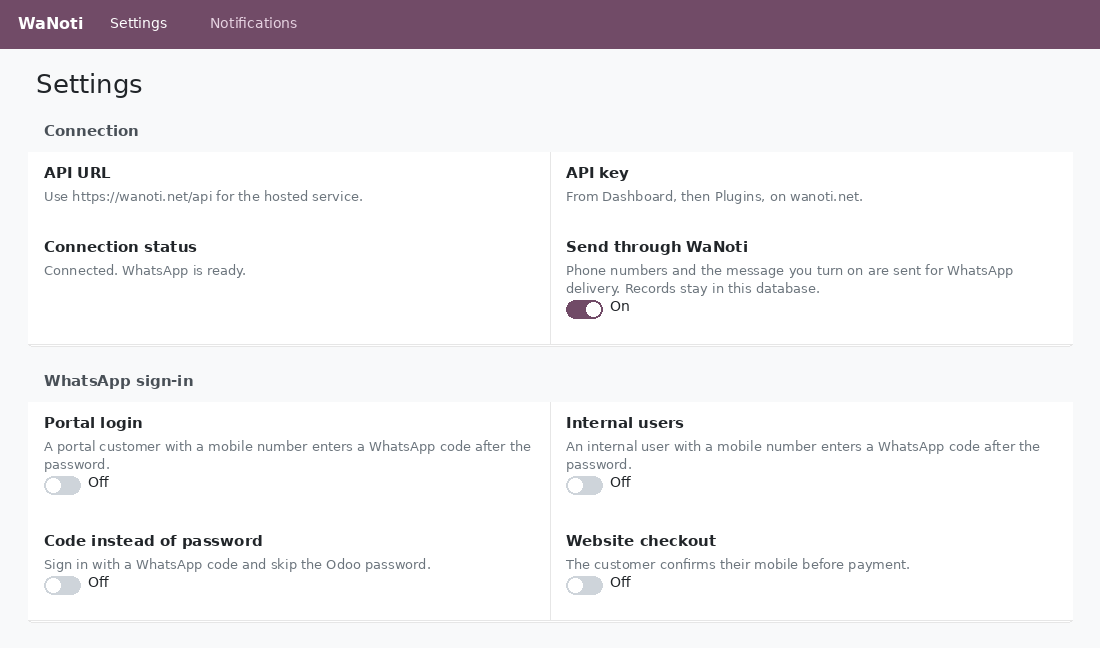
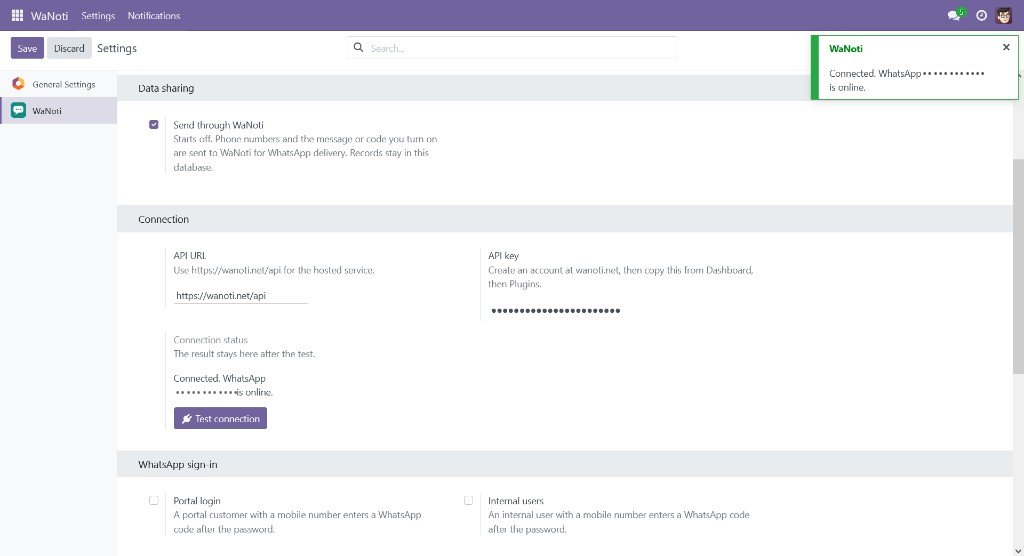
Replace the Apps page mockups with real screenshots.
The store page now shows the live settings, sign-in, notifications, and login screens, with the connected number hidden, and lists every event the module can send.

diff --git a/wanoti/static/description/index.html b/wanoti/static/description/index.html
@@ -2,57 +2,89 @@
     <div class="row">
         <div class="col-12">
             <h2 style="color:#714B67;font-size:28px;line-height:1.3;font-weight:500;margin:8px 0 8px;">WhatsApp beside email and the inbox</h2>
-            <p style="font-size:18px;line-height:1.4;color:#555;margin:0 0 12px;">Turn on the business events you want. Customer and staff are separate.</p>
+            <p style="font-size:18px;line-height:1.4;color:#555;margin:0 0 12px;">One connection. Every business event you turn on. Customer and staff stay separate.</p>
             <p style="font-size:16px;line-height:1.5;">WaNoti sends the events you choose through the company's own WhatsApp number. Published for Odoo 17, Odoo 18, and Odoo 19. Install the series that matches the database. The technical name is wanoti.</p>
-            <p style="font-size:16px;line-height:1.5;">Use it on Odoo.sh or on your own server. Odoo Online cannot install this module.</p>
+            <p style="font-size:16px;line-height:1.5;">Use it on Odoo.sh or on your own server. Odoo Online cannot install this module. Every switch starts off. Nothing is sent until an administrator turns on data sharing and turns on an event or a sign-in code.</p>
         </div>
     </div>
     <div class="row">
         <div class="col-12 col-md-6" style="margin-bottom:16px;">
-            <h3 style="color:#714B67;font-size:20px;line-height:1.3;margin:0 0 6px;">One connection</h3>
-            <p style="font-size:16px;line-height:1.5;">Open wanoti.net, create an account, and copy the API key from Dashboard, then Plugins. Paste it on the settings page and test.</p>
+            <h3 style="color:#714B67;font-size:20px;line-height:1.3;margin:0 0 6px;">Account and connection</h3>
+            <p style="font-size:16px;line-height:1.5;">Open wanoti.net, create an account, and copy the API key from Dashboard, then Plugins. Paste it in WaNoti Settings. The API URL stays wanoti.net/api. Test connection shows whether that WhatsApp number is online.</p>
         </div>
         <div class="col-12 col-md-6" style="margin-bottom:16px;">
-            <h3 style="color:#714B67;font-size:20px;line-height:1.3;margin:0 0 6px;">Real events</h3>
-            <p style="font-size:16px;line-height:1.5;">Sales, invoicing, purchase, CRM, project, inventory, point of sale, recruitment, time off, and maintenance. A section appears only when that app is installed.</p>
-        </div>
-        <div class="col-12 col-md-6" style="margin-bottom:16px;">
-            <h3 style="color:#714B67;font-size:20px;line-height:1.3;margin:0 0 6px;">Customer and staff</h3>
-            <p style="font-size:16px;line-height:1.5;">Each event has its own switches. They all start off. Discussions, activities, and notes are included for every installed app.</p>
+            <h3 style="color:#714B67;font-size:20px;line-height:1.3;margin:0 0 6px;">Country code on every number</h3>
+            <p style="font-size:16px;line-height:1.5;">Phone and Mobile on contacts, users, and preferences open a country list. Search by country name or calling code. The saved number includes the country code.</p>
         </div>
         <div class="col-12 col-md-6" style="margin-bottom:16px;">
             <h3 style="color:#714B67;font-size:20px;line-height:1.3;margin:0 0 6px;">WhatsApp sign-in</h3>
-            <p style="font-size:16px;line-height:1.5;">Portal login, internal login, a code instead of a password, and website checkout. Each one starts off.</p>
+            <p style="font-size:16px;line-height:1.5;">Portal login, internal users, a code instead of the password, and website checkout. Each one starts off. Send one test code without turning the others on.</p>
+        </div>
+        <div class="col-12 col-md-6" style="margin-bottom:16px;">
+            <h3 style="color:#714B67;font-size:20px;line-height:1.3;margin:0 0 6px;">Every installed app</h3>
+            <p style="font-size:16px;line-height:1.5;">Discussions, activities, and notes are listed for every app on the database. Named business events are added for Sales, Invoicing, Purchase, CRM, Project, Inventory, Point of Sale, Recruitment, Time Off, and Maintenance when that app is installed.</p>
         </div>
     </div>
     <div class="row" style="margin-bottom:24px;">
         <div class="col-12 col-md-5">
-            <h2 style="color:#714B67;font-size:26px;line-height:1.3;font-weight:500;margin:8px 0;">Connection and sign-in</h2>
-            <p style="font-size:16px;line-height:1.5;">The settings page opens with data sharing, the API connection, and the WhatsApp codes. Nothing is sent until data sharing is on and an event or a code is turned on.</p>
-            <p style="font-size:16px;line-height:1.5;">If WhatsApp is disconnected, password login and checkout continue. A code-instead-of-password login asks for the password.</p>
+            <h2 style="color:#714B67;font-size:26px;line-height:1.3;font-weight:500;margin:8px 0;">Connection</h2>
+            <p style="font-size:16px;line-height:1.5;">Data sharing starts off. Phone numbers, the message text, and document details for the events you enable are sent to WaNoti so they can be delivered on the company's own WhatsApp number. Odoo keeps the records.</p>
+            <p style="font-size:16px;line-height:1.5;">The connection test stays on the settings page. If WhatsApp is disconnected, password login and checkout continue. A code-instead-of-password login asks for the password.</p>
         </div>
         <div class="col-12 col-md-7">
-            <img src="screen_connection.png" alt="WaNoti connection and WhatsApp sign-in" style="width:100%;max-width:100%;height:auto;"/>
+            <img src="screen_connection.png" alt="WaNoti settings with data sharing and a tested connection" style="width:100%;max-width:100%;height:auto;border:1px solid #e6e6e6;"/>
         </div>
     </div>
     <div class="row" style="margin-bottom:24px;">
         <div class="col-12 col-md-7">
-            <img src="screen_sales.png" alt="Sales, invoicing, and purchase switches" style="width:100%;max-width:100%;height:auto;"/>
+            <img src="screen_signin.png" alt="WhatsApp sign-in choices and a test code" style="width:100%;max-width:100%;height:auto;border:1px solid #e6e6e6;"/>
         </div>
         <div class="col-12 col-md-5">
-            <h2 style="color:#714B67;font-size:26px;line-height:1.3;font-weight:500;margin:8px 0;">Sales, invoices, and purchase</h2>
-            <p style="font-size:16px;line-height:1.5;">Quotation sent and order confirmed can use the WaNoti message templates. Invoices notify on validation and payment. Purchase orders notify the vendor, the buyer, or both.</p>
-            <p style="font-size:16px;line-height:1.5;">Customer means the partner on the document. On a purchase order that switch is the vendor. Staff is the salesperson or the responsible user.</p>
+            <h2 style="color:#714B67;font-size:26px;line-height:1.3;font-weight:500;margin:8px 0;">Sign-in and checkout</h2>
+            <p style="font-size:16px;line-height:1.5;">Portal login sends a code after the password. Internal users can be asked for a code after the password. Code instead of password lets someone sign in with WhatsApp and skip the Odoo password. Website checkout asks the customer to confirm the mobile number before payment.</p>
+            <p style="font-size:16px;line-height:1.5;">The test code uses the same country list. It sends one code and does not turn the other switches on.</p>
         </div>
     </div>
     <div class="row" style="margin-bottom:24px;">
         <div class="col-12 col-md-5">
-            <h2 style="color:#714B67;font-size:26px;line-height:1.3;font-weight:500;margin:8px 0;">CRM, project, and the warehouse</h2>
-            <p style="font-size:16px;line-height:1.5;">Opportunity created, stage, won, and lost. Task created, stage, and done. A validated delivery or receipt. A paid point of sale order.</p>
-            <p style="font-size:16px;line-height:1.5;">Recruitment, time off, and maintenance are on the same page when those apps are installed. Every switch still starts off.</p>
+            <h2 style="color:#714B67;font-size:26px;line-height:1.3;font-weight:500;margin:8px 0;">Notifications</h2>
+            <p style="font-size:16px;line-height:1.5;">Customer is the partner on the document. On a purchase order that switch is the vendor. Staff is the salesperson, the assignee, or the responsible user. Some events are staff only, and that customer switch stays locked.</p>
+            <p style="font-size:16px;line-height:1.5;">Open the full list from Settings, or use the WaNoti Notifications menu. A section appears only when that app is installed. New switches start off.</p>
         </div>
         <div class="col-12 col-md-7">
-            <img src="screen_operations.png" alt="CRM, project, inventory, and point of sale switches" style="width:100%;max-width:100%;height:auto;"/>
+            <img src="screen_notifications.png" alt="Notification switches for installed apps" style="width:100%;max-width:100%;height:auto;border:1px solid #e6e6e6;"/>
+        </div>
+    </div>
+    <div class="row" style="margin-bottom:24px;">
+        <div class="col-12 col-md-6" style="margin-bottom:16px;">
+            <img src="screen_login.png" alt="Login page with a WhatsApp code link" style="width:100%;max-width:100%;height:auto;border:1px solid #e6e6e6;"/>
+        </div>
+        <div class="col-12 col-md-6" style="margin-bottom:16px;">
+            <img src="screen_otp.png" alt="Page where the user enters the WhatsApp code" style="width:100%;max-width:100%;height:auto;border:1px solid #e6e6e6;"/>
+        </div>
+    </div>
+    <div class="row">
+        <div class="col-12">
+            <h2 style="color:#714B67;font-size:26px;line-height:1.3;font-weight:500;margin:8px 0;">Business events</h2>
+            <p style="font-size:16px;line-height:1.5;">These named events sit on top of the discussions, activities, and notes from every installed app. A group is hidden until that app is installed.</p>
+        </div>
+        <div class="col-12 col-md-6">
+            <ul style="font-size:16px;line-height:1.6;padding-left:20px;">
+                <li>Sales: quotation sent, order confirmed.</li>
+                <li>Invoicing: invoice validated, invoice paid.</li>
+                <li>Purchase: sent to the vendor, confirmed, locked.</li>
+                <li>CRM: opportunity created, stage changed, won, lost.</li>
+                <li>Project: task created, stage changed, done.</li>
+            </ul>
+        </div>
+        <div class="col-12 col-md-6">
+            <ul style="font-size:16px;line-height:1.6;padding-left:20px;">
+                <li>Inventory: delivery, receipt, or internal transfer validated.</li>
+                <li>Point of Sale: order paid.</li>
+                <li>Recruitment: new applicant, hired.</li>
+                <li>Time Off: time off requested.</li>
+                <li>Maintenance: request created, status changed.</li>
+            </ul>
         </div>
     </div>
     <div class="row">
@@ -66,7 +98,7 @@
                 <li>Turn on data sharing.</li>
                 <li>Keep the API URL as wanoti.net/api, paste the API key, then test the connection.</li>
                 <li>Connect the company WhatsApp number in the WaNoti account.</li>
-                <li>Turn on Customer, Staff, or both for the events you want.</li>
+                <li>Open Notifications and turn on Customer, Staff, or both for the events you want.</li>
                 <li>Leave WhatsApp sign-in off until you want a code at login or checkout.</li>
             </ol>
             <p style="font-size:16px;line-height:1.5;">Installing another app later adds that app's section the next time Settings is opened. The new switches start off.</p>

diff --git a/wanoti/models/wanoti_dispatcher.py b/wanoti/models/wanoti_dispatcher.py
@@ -325,7 +325,7 @@ class WanotiDispatcher(models.AbstractModel):
                 api_url + "/plugin/ping",
                 json={
                     "site_url": self._site_url(),
-                    "plugin_version": "odoo-17.0.1.0.22",
+                    "plugin_version": "odoo-17.0.1.0.24",
                     "wp_version": "odoo-%s" % release.version,
                     "woocommerce_active": False,
                 },

diff --git a/wanoti/__manifest__.py b/wanoti/__manifest__.py
@@ -19,7 +19,7 @@ a code instead of a password, and website checkout codes stay off
 until the administrator enables them. If WhatsApp is disconnected,
 password login and checkout continue.
     """,
-    "version": "17.0.1.0.22",
+    "version": "17.0.1.0.24",
     "category": "Productivity/Discuss",
     "author": "WaNoti",
     "website": "https://wanoti.net",
